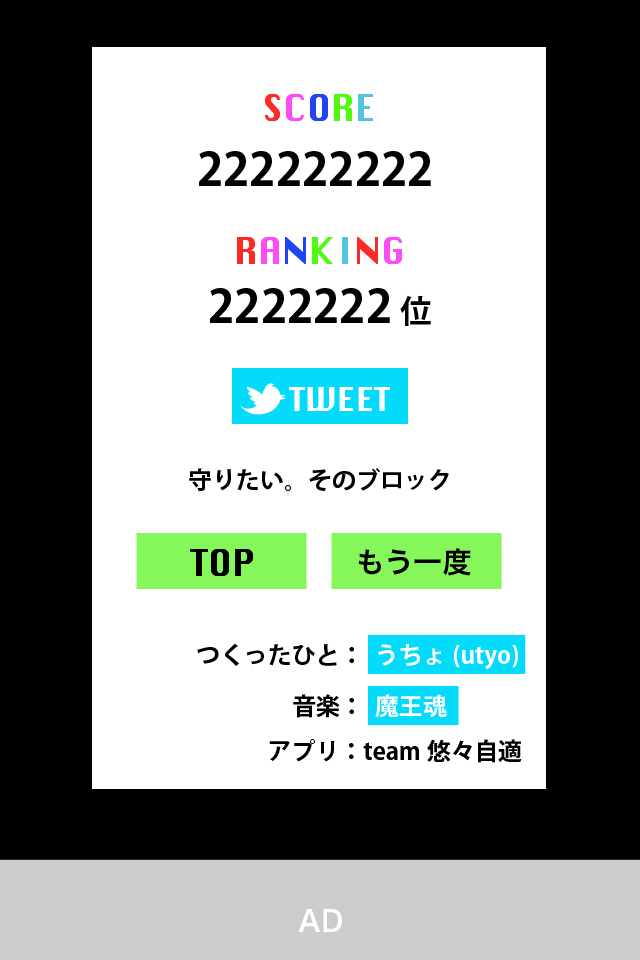
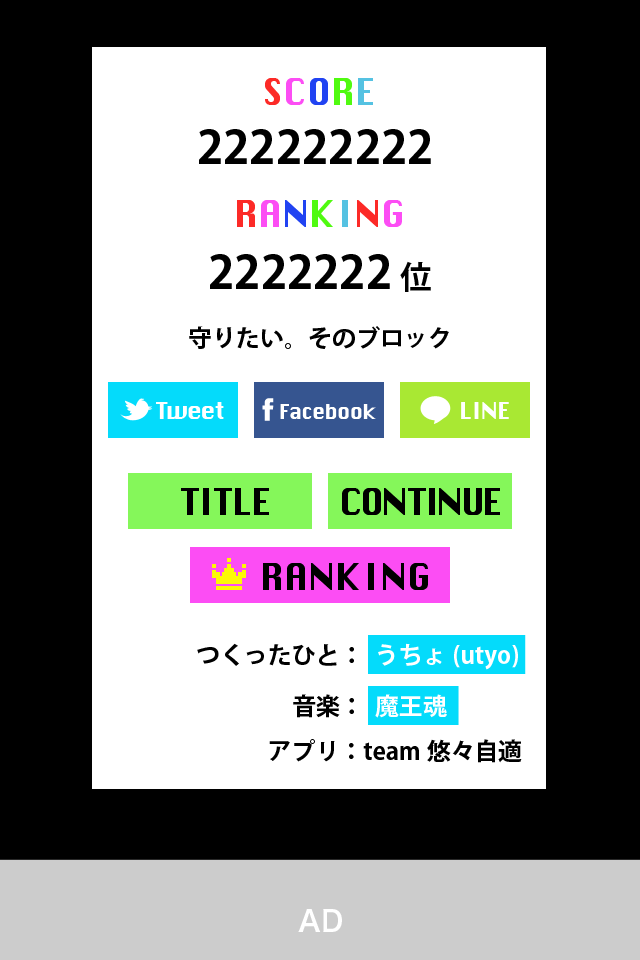
fix result scene

Changed region(s): [[0.1562, 0.0625, 0.8438, 0.625]]

diff --git a/scripts/param.js b/scripts/param.js
@@ -14,6 +14,7 @@ var BLOCK_WIDTH  = 74;
 var BLOCK_HEIGHT = 25;
 
 var BAR_POSITION_Y = 700;
+var LANGUAGE = "ja";
 
 var UI_DATA = {
     main: { // MainScene用ラベル
@@ -45,41 +46,44 @@ var UI_DATA = {
                 type: "tm.display.Sprite",
                 name: "scoreImage",
                 init: ["img_text_score"],
-                x: 320, y: 165,
+                x: 320, y: 150,
                 visible: false,
             },
             {
                 type: "tm.display.Sprite",
                 name: "rankImage",
                 init: ["img_text_rank"],
-                x: 320, y: 311,
+                x: 320, y: 270,
                 visible: false,
             },
             
+            // スコア
             {
                 type: "tm.display.Label",
                 name: "scoreLabel",
-                x: 320, y: 250,
+                x: 320, y: 225,
                 text: " ",
                 align: "center",
-                fontSize: 64,
+                fontSize: 46,
                 fillStyle: "black",
+                fontWeight: "bold",
                 visible: false,
             },
             {
                 type: "tm.display.Label",
                 name: "rankLabel",
-                x: 320, y: 380,
+                x: 320, y: 350,
                 text: "位",
                 align: "center",
                 fontSize: 40,
                 fillStyle: "black",
+                fontWeight: "bold",
                 visible: false,
             },
             {
                 type: "tm.display.Label",
                 name: "messageLabel",
-                x: 320, y: 550,
+                x: 320, y: 405,
                 text: "守りたい。そのブロック",
                 align: "center",
                 fontSize: 24,
@@ -93,24 +97,44 @@ var UI_DATA = {
                 name: "ui",
                 visible: false,
                 children: [
-                    // button
+                    // social button
                     {
                         type: "tm.display.Sprite",
                         name: "btnTweet",
                         init: ["img_btn_tweet"],
-                        x: 320, y: 455,
+                        x: 320-150, y: 470,
                     },
                     {
                         type: "tm.display.Sprite",
+                        name: "btnFacebook",
+                        init: ["img_btn_facebook"],
+                        x: 320, y: 470,
+                    },
+                    {
+                        type: "tm.display.Sprite",
+                        name: "btnLine",
+                        init: ["img_btn_line"],
+                        x: 320+150, y: 470,
+                    },
+
+                    // title and continue and ranking
+                    {
+                        type: "tm.display.Sprite",
                         name: "btnTitle",
-                        init: ["img_btn_top"],
-                        x: 320-100, y: 620,
+                        init: ["img_btn_title"],
+                        x: 320-100, y: 560,
                     },
                     {
                         type: "tm.display.Sprite",
                         name: "btnContinue",
-                        init: ["img_btn_again"],
-                        x: 320+100, y: 620,
+                        init: ["img_btn_continue"],
+                        x: 320+100, y: 560,
+                    },
+                    {
+                        type: "tm.display.Sprite",
+                        name: "btnRanking",
+                        init: ["img_btn_ranking"],
+                        x: 320, y: 635,
                     },
 
                     {
@@ -157,17 +181,17 @@ var UI_DATA = {
 };
 
 var ASSETS = {
-    "img_btn_again": "images/btn_again.png",
-    "img_btn_rank": "images/btn_rank.png",
+    "img_btn_continue": "images/btn_continue.png",
+    "img_btn_ranking": "images/btn_ranking.png",
     "img_btn_start": "images/btn_start.png",
-    "img_btn_top": "images/btn_top.png",
+    "img_btn_title": "images/btn_title.png",
     "img_btn_tweet": "images/btn_tweet.png",
+    "img_btn_line": "images/btn_line.png",
+    "img_btn_facebook": "images/btn_facebook.png",
     "img_text_rank": "images/text_rank.png",
     "img_text_score": "images/text_score.png",
     "img_bonus": "images/bonus.png",
 
-    "se_pon": "./sounds/puu.wav",
-    
     // TODO: 消す
     "img_top": "images/ss/block_top.png",
     "img_result": "images/ss/block_result.png",

diff --git a/scripts/resultscene.js b/scripts/resultscene.js
@@ -2,7 +2,8 @@
  * result scene
  */
 
-rank = 430;
+// point = 3003;
+// rank = 430;
 
 tm.define("ResultScene", {
     superClass: "tm.app.Scene",
@@ -16,12 +17,21 @@ tm.define("ResultScene", {
         this.messageLabel.alpha = 0;
         this.ui.hide().sleep();
         
-        var ss = tm.display.Sprite("img_result").addChildTo(this).setOrigin(0, 0);
-        ss.alpha = 0.0;
-        ss.y += 60;
+        // var ss = tm.display.Sprite("img_result").addChildTo(this).setOrigin(0, 0);
+        // ss.alpha = 0.5;
+        // ss.y += 60;
         
         this.score = 0;
         this.rank = 0;
+
+        var comment = (LANGUAGE == "ja") ?
+            "守りたい。そのブロック" : "Want to defence. The block.";
+        var hashtags = (LANGUAGE == "ja") ?
+            "ブロック崩さぬ" : "breakguard";
+        var message = "SCORE: {0}, {1} ".format(point, comment);
+        var url = "http://cachacacha.com";
+
+        this.messageLabel.text = comment;
 
         // tweet
         this.ui.btnTweet
@@ -29,18 +39,38 @@ tm.define("ResultScene", {
             .setBoundingType("rect")
             .on("pointingstart", function() {
                 yyjtk.api.sendTwitter({
-                    text: "SCORE: {0}, 守りたい。そのブロック ".format(point),
+                    text: message,
                     via: "utyo",
-                    hashtags: "ブロック崩さぬ",
-                    url: "http://cachacacha.com"
+                    hashtags: hashtags,
+                    url: url
                 });
             });
+        // facebook
+        this.ui.btnFacebook
+            .setInteractive(true)
+            .setBoundingType("rect")
+            .on("pointingstart", function() {
+                yyjtk.api.sendFacebook({
+                    text: message,
+                    url: url
+                });
+            });
+        // line
+        this.ui.btnLine
+            .setInteractive(true)
+            .setBoundingType("rect")
+            .on("pointingstart", function() {
+                yyjtk.api.sendLine({
+                    text: message,
+                    url: url
+                });
+            });
+
         this.ui.btnTitle
             .setInteractive(true)
             .setBoundingType("rect")
             .on("pointingstart", function() {
                 var app = this.app;
-
                 yyjtk.api.closeView();
             }.bind(this));
         // コンティニュー
@@ -52,6 +82,13 @@ tm.define("ResultScene", {
 
                 app.popScene();
                 app.replaceScene(MainScene());
+            }.bind(this));
+        // ランキング
+        this.ui.btnRanking
+            .setInteractive(true)
+            .setBoundingType("rect")
+            .on("pointingstart", function() {
+                yyjtk.api.viewRanking(RANKING_ID);
             }.bind(this));
 
         // ランキング送信

diff --git a/scripts/yyjtk.js b/scripts/yyjtk.js
@@ -113,29 +113,54 @@ var yyjtk = {};
          * url ... 
          */
         sendTwitter: function(params) {
-        	params.text = params.text || "";
-        	params.via = params.via || "";
-        	params.hashtags = params.hashtags || "";
+            params.text = params.text || "";
+            params.via = params.via || "";
+            params.hashtags = params.hashtags || "";
 
-        	if (params.hashtags) {
-        		var tagsArr = params.hashtags.split(',');
-        		var tags = [];
-        		tagsArr.each(function(elm) {
-        			tags.push("#" + elm);
-        		});
-        		params.hashtags = tags.join(' ');
-        	}
-        	else {
-        		params.hashtags = "";
-        	}
+            if (params.hashtags) {
+                var tagsArr = params.hashtags.split(',');
+                var tags = [];
+                tagsArr.each(function(elm) {
+                    tags.push("#" + elm);
+                });
+                params.hashtags = tags.join(' ');
+            }
+            else {
+                params.hashtags = "";
+            }
 
-        	var finalText = "{text} via @{via} {hashtags}".format(params);
-        	var param = {
-        		text: finalText,
-        		url: params.url || '',
-        	};
+            var finalText = "{text} via @{via} {hashtags}".format(params);
+            var param = {
+                text: finalText,
+                url: params.url || '',
+            };
 
             this.exec("twitter?" + tm.util.QueryString.stringify(param));
+        },
+        sendFacebook: function(param) {
+            param.text = param.text || "";
+            param.url = param.url || "";
+
+            this.exec("facebook?" + tm.util.QueryString.stringify(param));
+        },
+        sendLine: function(param) {
+            param.text = param.text || "";
+            param.url = param.url || "";
+
+            this.exec("line?" + tm.util.QueryString.stringify(param));
+        },
+
+        getLanguage: function(callback) {
+            if (yyjtk.isWebView()) {
+                callback = this.setCallbackFunction(callback);
+                var param = {
+                    callback: callback,
+                };
+                this.exec( "getLanguage?" + tm.util.QueryString.stringify(param) );
+            }
+            else {
+                callback && callback("en"); // or ja
+            }
         },
 
         setCallbackFunction: function(callback) {

diff --git a/scripts/main.js b/scripts/main.js
@@ -8,6 +8,11 @@ tm.main(function() {
     app.resize(SCREEN_WIDTH, SCREEN_HEIGHT);
     app.fitWindow();
 
+    var flow = tm.util.Flow(2, function() {
+        var scene = tm.global[sceneName]();
+        app.replaceScene(scene);
+    });
+
     // query(http://...?{~}) からシーン名を取得
     var sceneName = QUERY.scene || "MainScene";
 
@@ -19,11 +24,16 @@ tm.main(function() {
     });
     // ロード完了時イベントリスナを登録
     loading.onload = function() {
-        var scene = tm.global[sceneName]();
-        app.replaceScene(scene);
+        flow.pass();
     };
     // シーンきりかえ
     app.replaceScene(loading);
+
+    // 言語取得
+    yyjtk.api.getLanguage(function(lang) {
+        LANGUAGE = lang;
+        flow.pass();
+    });
     
     // 実行
     app.run();
